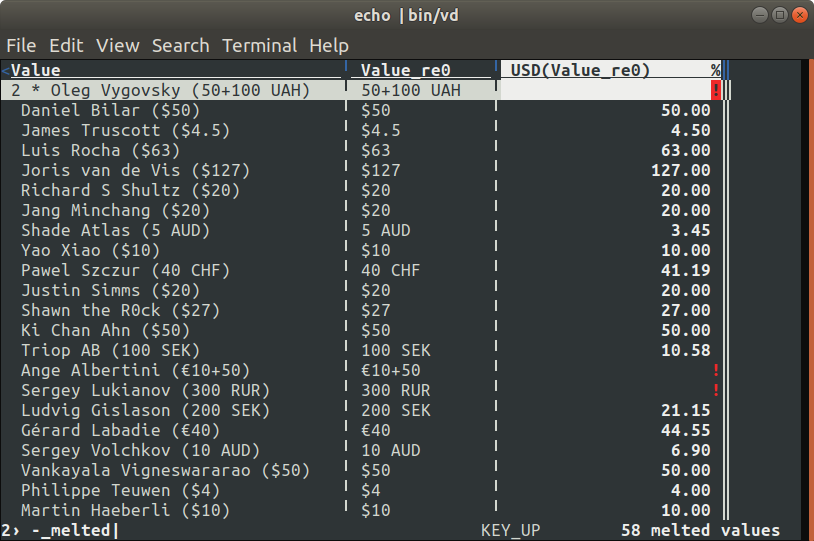
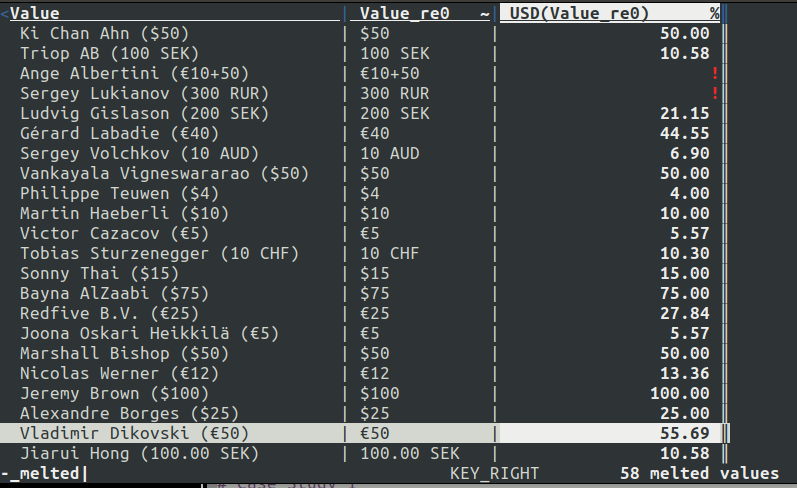
[videos] update screenshots for case-study-1

diff --git a/videos/case-study-1.md b/videos/case-study-1.md
@@ -39,8 +39,6 @@ First we are going to cut and paste this text into our terminal window, and pipe
 echo '2 * Oleg Vygovsky (50+100 UAH), Daniel Bilar ($50), James Truscott ($4.5), Luis Rocha ($63), Joris van de Vis ($127), Richard S Shultz ($20), Jang Minchang ($20), Shade Atlas (5 AUD), Yao Xiao ($10), Pawel Szczur (40 CHF), Justin Simms ($20), Shawn the R0ck ($27), Ki Chan Ahn ($50), Triop AB (100 SEK), Ange Albertini (€10+50), Sergey Lukianov (300 RUR), Ludvig Gislason (200 SEK), Gérard Labadie (€40), Sergey Volchkov (10 AUD), Vankayala Vigneswararao ($50), Philippe Teuwen ($4), Martin Haeberli ($10), Victor Cazacov (€5), Tobias Sturzenegger (10 CHF), Sonny Thai ($15), Bayna AlZaabi ($75), Redfive B.V. (€25), Joona Oskari Heikkilä (€5), Marshall Bishop ($50), Nicolas Werner (€12), Jeremy Brown ($100), Alexandre Borges ($25), Vladimir Dikovski (€50), Jiarui Hong (100.00 SEK), Jim Di (500 RUR), Tan Vincent ($30), Sri Harsha Kandrakota (10 AUD), Pillay Harish (10 SGD), Timur Valiev (230 RUR), Carlos Garcia Prado (€10), Salikov Alexander (500 RUR), Oliver Whitehouse (30 GBP), Katy Moe ($14), Maxim Dyakonov ($3), Sebastian Aguilera (€20), Hans-Martin Münch (€15), Jarle Thorsen (100 NOK), Vitaly Osipov ($100), Yuri Romanov (1000 RUR), Aliaksandr Autayeu (€10), Tudor Azoitei ($40), Z0vsky (€10), Yu Dai ($10), Anonymous ($15), Vladislav Chelnokov ($25), Nenad Noveljic ($50), Ryan Smith ($25), Andreas Schommer (€5). ' | vd
 ```
 
-![pipe](/videos/assets/case-study-1-02.png)
-
 Now VisiData has that as one of its rows.
 
 ![opening](/videos/assets/case-study-1-03.png)
@@ -67,7 +65,8 @@ So we're going to use a command in VisiData called 'melt': it's like an un-pivot
 
 We can move our cursor to the **Value** column, and we're going to use another command. The `;` key extracts part of a column according to regex. We're going to pull out the donation amount from within the parentheses, by constructing a regex. This is the standard regex for extract everything from inside the parentheses: `\((.*)\)`. The inner set of parentheses `(.*)` is the capture group. Everything included in the capture group is going to be pulled into a new column.
 
-![capture](/videos/assets/case-study-1-09.png)
+![capture-input](/videos/assets/case-study-1-02.png)
+![capture-enter](/videos/assets/case-study-1-09.png)
 
 If we wanted to, we could just sum up this set of numbers. It wouldn't be very meaningful, because they're all in different currency units, but we could do it.
 
@@ -88,13 +87,13 @@ To use it, let's convert our currencies back to strings. This will involve using
 
 Now, we are going to use `=` to create a new column based on an input Python expression. With that, we are going to use the **USD** function on this **Value_re0** column.
 
-![sum](/videos/assets/case-study-1-14.png)
+![usd](/videos/assets/case-study-1-14.png)
 
-I'm then going to convert this USD output into a float type. Now we can see that, for instance, this €50 is actually $61 in US money. Others that were already in US money just remain the same.
+I'm then going to convert this USD output into a float type. Now we can see that, for instance, this €50 is actually ~$55 in US money. Others that were already in US money just remain the same.
 
 ![float](/videos/assets/case-study-1-15.png)
 
-Now, we can do the same `z+` *sum* as we did before, and see the value in US dollars as of today's rates. That is about $1,470 worth of value: that's the total donations he got from people for his book. It's not quite the full total, because we're missing the ones with errors and such. We could do some more things to make that better, but this is a rough general calculation.
+Now, we can do the same `z+` *sum* as we did before, and see the value in US dollars as of today's rates. That is about $1,431 worth of value: that's the total donations he got from people for his book. It's not quite the full total, because we're missing the ones with errors and such. We could do some more things to make that better, but this is a rough general calculation.
 
 ![final sum](/videos/assets/case-study-1-16.png)
 
